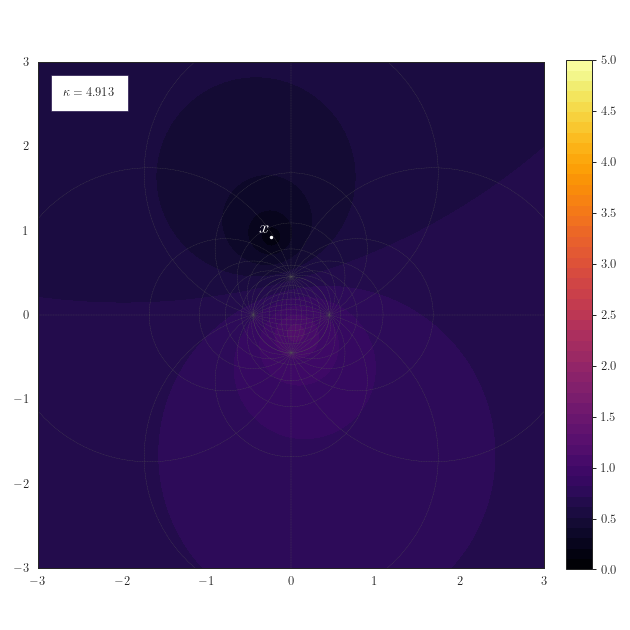
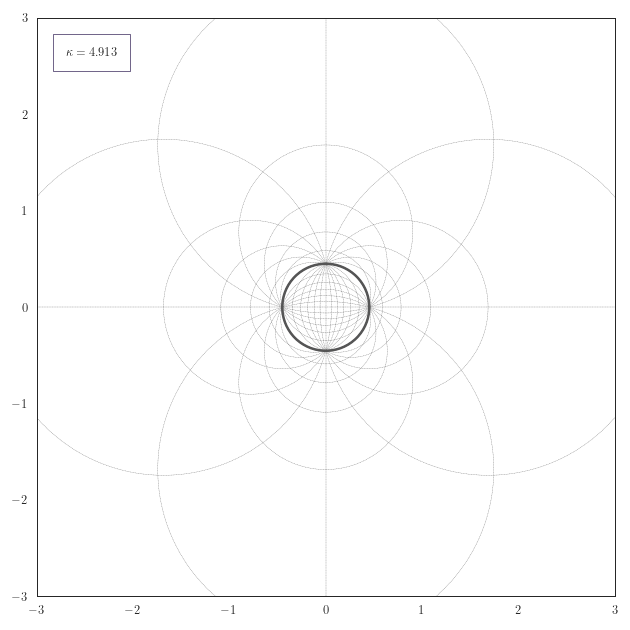
setting up ssh on bht pc

diff --git a/geoopt-universal-manifold/geoopt/manifolds/stereographic/utils.py b/geoopt-universal-manifold/geoopt/manifolds/stereographic/utils.py
@@ -6,7 +6,7 @@ import seaborn as sns
 from matplotlib import rcParams
 import imageio
 from pygifsicle import optimize
-from globals import COLORS
+from globals import COLORS,N_GRID_EVALS
 
 
 def setup_plot(manifold, lo=None, width=7, height=7, grid_line_width=0.3, with_background=True):
@@ -24,10 +24,10 @@ def setup_plot(manifold, lo=None, width=7, height=7, grid_line_width=0.3, with_b
   R = manifold.get_R()
 
   # add circle
-  circle = plt.Circle((0, 0), R, fill=with_background, color=COLORS.BACKGROUND_BLUE)
+  circle = plt.Circle((0, 0), R.cpu(), fill=with_background, color=COLORS.BACKGROUND_BLUE)
   plt.gca().add_artist(circle)
   if K > 0:
-    circle_border = plt.Circle((0, 0), R, fill=False, color=COLORS.GREY,linewidth=2.0)
+    circle_border = plt.Circle((0, 0), R.cpu(), fill=False, color=COLORS.GREY,linewidth=2.0)
     plt.gca().add_artist(circle_border)
 
 
@@ -60,7 +60,7 @@ def get_maximal_numerical_distance(manifold):
   dist0 = None
   if K < 0:
     # create point on R
-    r = torch.tensor((R, 0.0), dtype=torch.float64)
+    r = torch.tensor((R, 0.0), dtype=torch.float64).to(manifold.device)
     # project point on R into valid range (epsilon border)
     r = manifold.projx(r)
     # determine distance from origin
@@ -102,21 +102,21 @@ def add_geodesic_grid(plt, manifold, lo, hi, line_width = 0.1):
     min_t = -1.2*max_dist_0
   else:
     min_t = -circumference/2.0
-  t = torch.linspace(min_t, -min_t, N_EVALS_PER_GEODESIC)[:, None]
+  t = torch.linspace(min_t, -min_t, N_EVALS_PER_GEODESIC).to(manifold.device)[:, None]
 
   # define a function to plot the geodesics
   def plot_geodesic(gv, **kwargs):
     plt.plot(*gv.t().numpy(), STYLE, color=COLOR, linewidth=LINE_WIDTH)
 
   # define geodesic directions
-  u_x = torch.tensor((0.0, 1.0))
-  u_y = torch.tensor((1.0, 0.0))
+  u_x = torch.tensor((0.0, 1.0)).to(manifold.device)
+  u_y = torch.tensor((1.0, 0.0)).to(manifold.device)
 
   # add origin x/y-crosshair
-  o = torch.tensor((0.0, 0.0))
+  o = torch.tensor((0.0, 0.0)).to(manifold.device)
   if K < 0:
-    x_geodesic = manifold.geodesic_unit(t, o, u_x)
-    y_geodesic = manifold.geodesic_unit(t, o, u_y)
+    x_geodesic = manifold.geodesic_unit(t, o, u_x).cpu()
+    y_geodesic = manifold.geodesic_unit(t, o, u_y).cpu()
     plot_geodesic(x_geodesic)
     plot_geodesic(y_geodesic)
   else:
@@ -133,15 +133,15 @@ def add_geodesic_grid(plt, manifold, lo, hi, line_width = 0.1):
     y = manifold.geodesic_unit(i*grid_interval_size, o, u_x)
 
     # compute point on geodesics
-    x_geodesic = manifold.geodesic_unit(t, x, u_x)
-    y_geodesic = manifold.geodesic_unit(t, y, u_y)
+    x_geodesic = manifold.geodesic_unit(t, x, u_x).cpu()
+    y_geodesic = manifold.geodesic_unit(t, y, u_y).cpu()
 
     # plot geodesics
     plot_geodesic(x_geodesic)
     plot_geodesic(y_geodesic)
     if K < 0:
-        plot_geodesic(-x_geodesic)
-        plot_geodesic(-y_geodesic)
+      plot_geodesic(-x_geodesic)
+      plot_geodesic(-y_geodesic)
 
 
 def add_K_box(plt, K):

diff --git a/geoopt-universal-manifold/docs/plots/stereographic/distance.py b/geoopt-universal-manifold/docs/plots/stereographic/distance.py
@@ -5,14 +5,15 @@ import torch
 import numpy as np
 from geoopt.manifolds.stereographic.utils import (
   setup_plot, get_interpolation_Ks, get_img_from_fig,
-  save_img_sequence_as_boomerang_gif, add_K_box,COLORS
+  save_img_sequence_as_boomerang_gif, add_K_box
 )
 from tqdm import tqdm
+from globals import COLORS,N_GRID_EVALS
 
 module_dir = os.path.dirname(os.path.abspath(__file__))
 
 def show(x:torch.Tensor,device):
-  n_grid_evals = 1000
+  n_grid_evals = N_GRID_EVALS
   imgs = []
 
   # for every K of the interpolation sequence
@@ -33,18 +34,18 @@ def show(x:torch.Tensor,device):
     # create mesh-grid
     coords = None
     if K < 0:
-      coords = np.linspace(lo, hi, n_grid_evals)
+      coords = torch.linspace(lo, hi, n_grid_evals).to(device)
     else:
-      coords = np.linspace(lo, hi, n_grid_evals)
-    xx, yy  = np.meshgrid(coords, coords)
-    grid    = np.stack([xx, yy], axis=-1)
+      coords = torch.linspace(lo, hi, n_grid_evals).to(device)
+    xx, yy  = torch.meshgrid(coords, coords,indexing='ij')
+    grid    = torch.stack([xx, yy], axis=-1)
 
     # create point on manifold
     # x = torch.tensor([-0.75, -0.2])
     x = x.to(device)
 
     # compute distances to point
-    dists = manifold.dist(torch.from_numpy(grid).float(), x)
+    dists = manifold.dist(grid.float(), x)
 
     # zero-out points outside of Poincaré ball
     if K < 0:
@@ -53,19 +54,19 @@ def show(x:torch.Tensor,device):
       dists[(~mask).nonzero()] = np.nan
 
     # add contour plot
-    plt.contourf(
-      grid[..., 0],
-      grid[..., 1],
-      dists.sqrt().numpy(),
-      levels=np.linspace(0, 5, 50),
-      cmap="inferno"
-    )
-    cbar = plt.colorbar(fraction=0.046, pad=0.04)
-    cbar.set_ticks([0.0, 0.5, 1.0, 1.5, 2.0, 2.5, 3.0, 3.5, 4.0, 4.5, 5.0])
+    # plt.contourf(
+    #   grid[..., 0].cpu(),
+    #   grid[..., 1].cpu(),
+    #   dists.sqrt().cpu(),
+    #   levels=np.linspace(0, 5, 50),
+    #   cmap="inferno"
+    # )
+    # cbar = plt.colorbar(fraction=0.046, pad=0.04)
+    # cbar.set_ticks([0.0, 0.5, 1.0, 1.5, 2.0, 2.5, 3.0, 3.5, 4.0, 4.5, 5.0])
 
     # plot x
-    plt.scatter(*x, s=3.0, color=COLORS.TEXT_COLOR)
-    plt.annotate("$x$", x + torch.tensor([-0.15, 0.05]), fontsize=15, color=COLORS.TEXT_COLOR)
+    # plt.scatter(*(x.cpu()), s=3.0, color=COLORS.TEXT_COLOR)
+    # plt.annotate("$x$", x.cpu() + torch.tensor([-0.15, 0.05]), fontsize=15, color=COLORS.TEXT_COLOR)
 
     # add plot title
     # plt.title(r"Square Root of Distance to $x$")

diff --git a/geoopt-universal-manifold/test.py b/geoopt-universal-manifold/test.py
@@ -1,0 +1,51 @@
+import random
+import torch
+from docs.plots import * 
+import numpy as np
+from globals import COLORS
+
+gpu = False
+device = torch.device("cuda" if torch.cuda.is_available() else "cpu")
+
+def set_global_seed(seed: int):
+  random.seed(seed)
+  np.random.seed(seed)
+  torch.manual_seed(seed)
+
+  # If using CUDA
+  if torch.cuda.is_available():
+    torch.cuda.manual_seed(seed)
+    torch.cuda.manual_seed_all(seed)
+
+def random_pc_vector(dim):
+  while True:
+    x = (2 * torch.rand(dim)) - 1  # random in (-1, 1)
+    if torch.norm(x) < 1:
+      return x
+    
+set_global_seed(42)
+
+
+x   = random_pc_vector(2)
+y   = random_pc_vector(2)
+v1  = torch.rand(2)/5
+v2  = torch.rand(2)/5
+M   = torch.tensor([[-1, -1.5], [0.2, 0.5]])
+
+# POINCARE
+
+#poincare.distance.show(x,device)
+#poincare.distance2plane.show(x,v1,device)
+#poincare.gyrovector_parallel_transport.show(x,y,device)
+#poincare.mobius_add.show(x,y,device)
+#poincare.mobius_matvec.show(M,x,device)
+#poincare.mobius_sigmoid_apply.show(x,device)
+#poincare.parallel_transport.show(x,y,v1,v2,device)
+
+# PRODUCT GEOMETRY
+
+#screenshots = product.torus_embedding.show(device)
+
+# K-STEREOGRAPHIC MODEL
+
+stereographic.distance.show(x,device)

diff --git a/geoopt-universal-manifold/globals.py b/geoopt-universal-manifold/globals.py
@@ -23,3 +23,14 @@ class COLORS:
 HEATMAP = LinearSegmentedColormap.from_list("mycmap", [
   COLORS.YELLOW,COLORS.ORANGE,COLORS.BLUE,COLORS.BLUE,COLORS.BLACK][::-1], 
   N=256)
+
+
+# GRID SETTINGS
+
+N_GRID_EVALS = 1000
+# global figure setting for pyplot and mlab
+class IMG_DIM:
+  def __init__(self,width,square=True,plt=True):
+    scale = 1 if plt else 500/7 
+    self.WIDTH  = width*scale
+    self.HEIGHT = width if square else width*5/7

diff --git a/geoopt-universal-manifold/geoopt/manifolds/stereographic/math.py b/geoopt-universal-manifold/geoopt/manifolds/stereographic/math.py
@@ -135,7 +135,7 @@ def _project(x, K, dim: int = -1, eps: float = None):
     projected = (x / norm) * maxnorm
     return torch.where(cond, projected, x)
   else:
-      return x
+    return x
 
 
 def gamma_x(x, *, K=1.0, keepdim=False, dim=-1):
